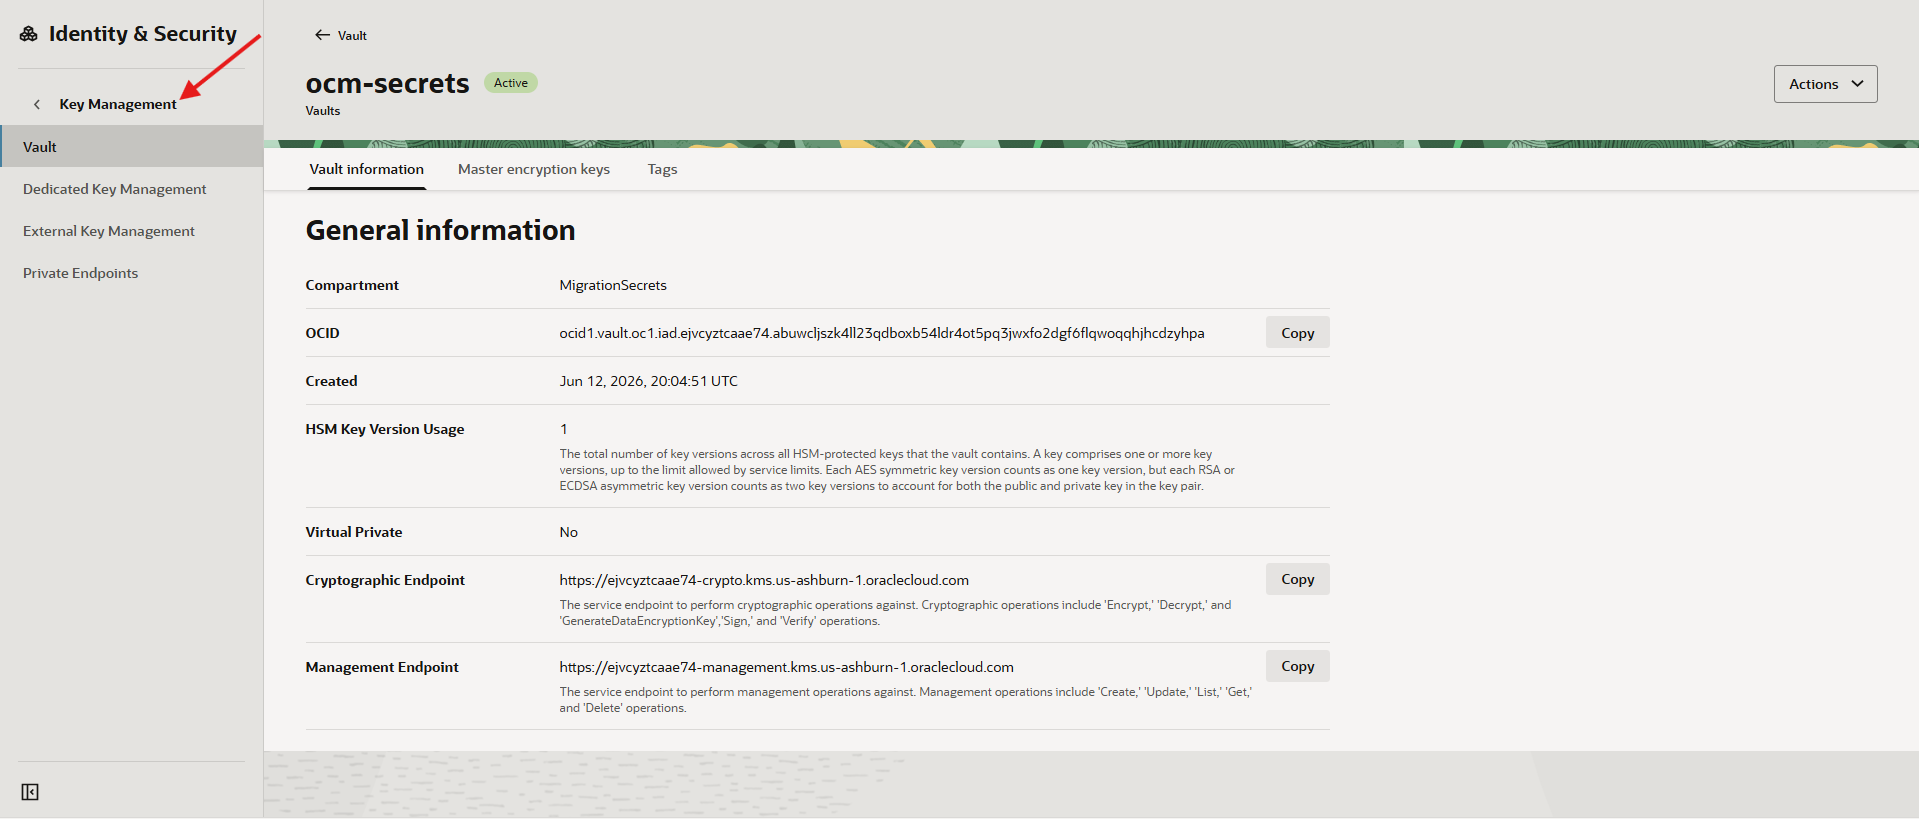
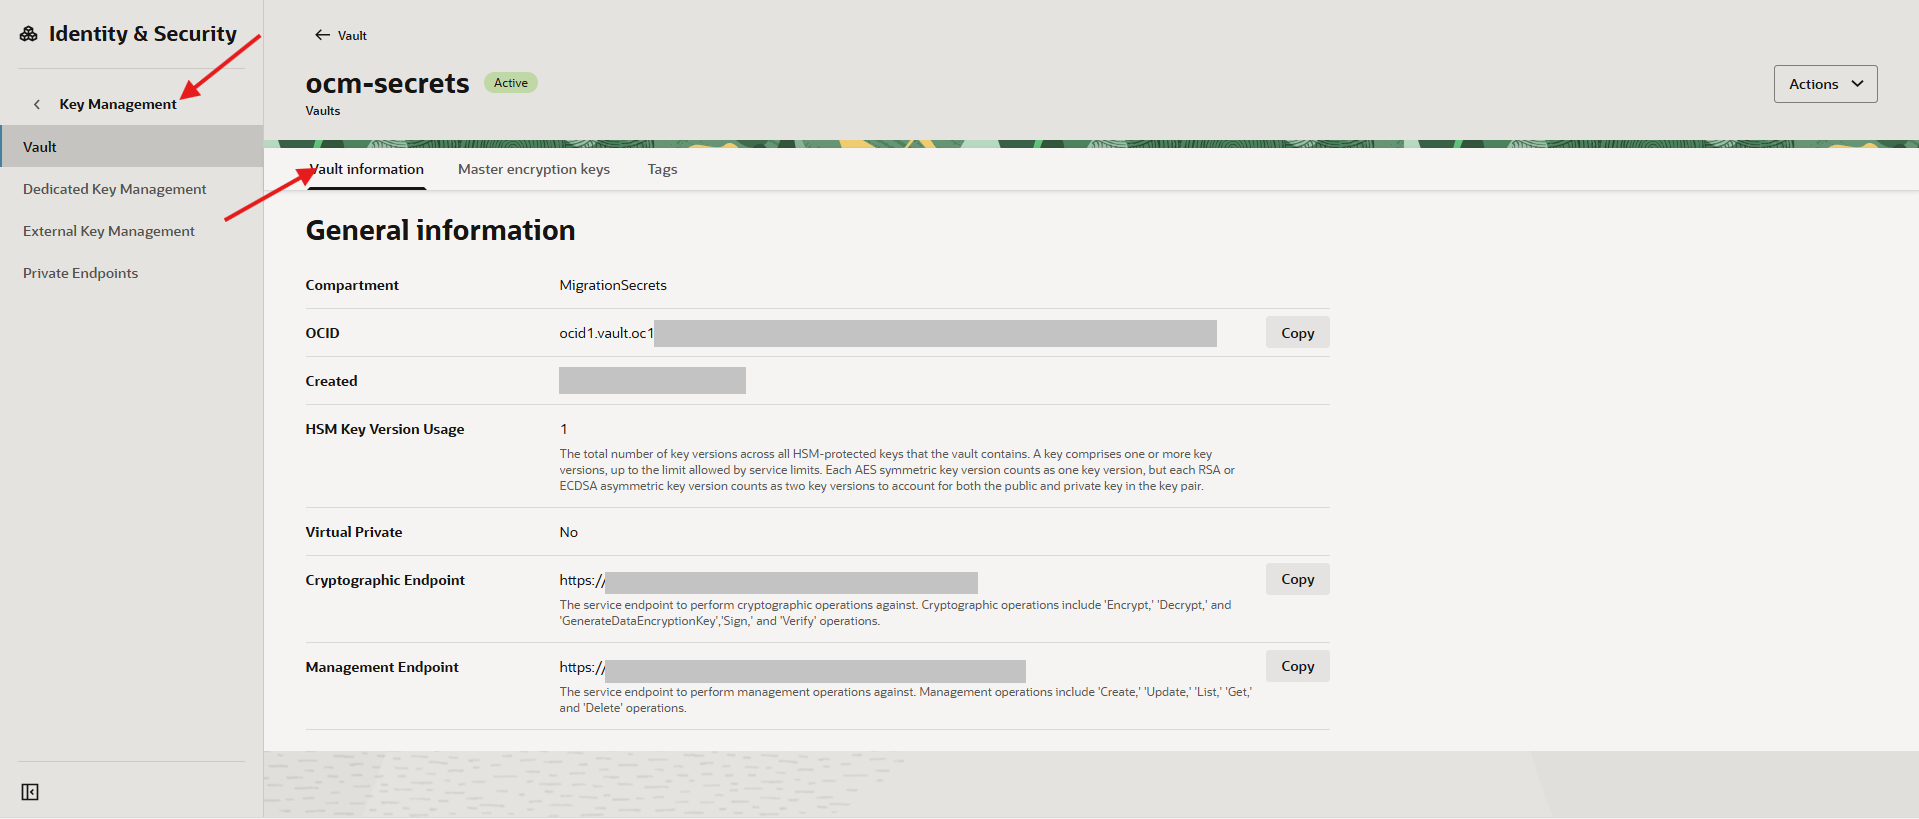
updated

diff --git a/vmware-to-olvm-ocm/setup-vmware-source/setup-vmware-source.md b/vmware-to-olvm-ocm/setup-vmware-source/setup-vmware-source.md
@@ -26,18 +26,18 @@ If this workshop migration uses only Linux source VMs, no Windows VirtIO driver 
 ## Task 1: Store vCenter Credentials in Vault
 
 1. In the OCI Console menu, open **Identity & Security**, **Key Management**, **Vault**.
+    ![Key Management Vault Menu](images/key-management-vault-menu.png "Open Key Management Vault Menu")
 
-2. Select the compartment **olvm-migrations -> Migration -> MigrationSecrets**.
+2. Select the compartment **olvm-migrations -> Migration -> MigrationSecrets**. Then Open the Vault created by the prerequisites stack **ocm-secrets**.
+    ![Migration Secrets Compartment](images/migration-secrets-vault.png "Migration Secrets Compartment")
 
-3. Open the Vault created by the prerequisites stack **ocm-secrets**.
-
-4. Click **Key Management**.
+3. Click **Key Management** and selet the **Vault Information** tab
     ![Key Management Menu](images/key-management-menu.png "Select Key Management")
 
-5. Click **Secret Management**, then click **Create Secret**.
+4. Click **Secret Management**, then click **Create Secret**.
     ![Secret Management Menu](images/secret-management-menu.png "Select Secret Management")
 
-6. On the **Create Secret** page, use the following values.
+5. On the **Create Secret** page, use the following values.
     > Note: Be sure to follow the example format for the secret contents.
 
     | Field | Value |
@@ -56,9 +56,15 @@ If this workshop migration uses only Linux source VMs, no Windows VirtIO driver 
 
     ![Create Secret Page](images/create-secret.png "Enter Create Secret values")
 
-7. Click **Create secret**.
+6. Click **Create secret** and wait for the secret status to become **Active**.
 
-8. Wait for the secret status to become **Active**.
+7. To Locate the active secret , start at  OCI Console menu, open **Identity & Security**, **Secret Management**
+    ![Identity Secret Management Menu](images/identity-secret-management-menu.png "Select Identity Secret Management Menu")
+
+8. Select Compartment **MigrationSecrets**, Vault **ocm-secrets**, and click the **Apply filter** button. 
+    ![Find secret](images/find-secret.png "Find secret")
+
+    ![Active secret](images/active-secret.png "Show Active secret")
 
 ## Task 2: Create the Source Environment
 
@@ -110,6 +116,8 @@ If this workshop migration uses only Linux source VMs, no Windows VirtIO driver 
 
 ## Task 4: Add the OVA to the vCenter Content Library
 
+>**NOTE:** VMware experience required for this lab
+
 1. Sign in to vCenter.
     ![vCenter Login](images/vcenter-login.png "Show vCenter Login")
 
@@ -122,6 +130,8 @@ If this workshop migration uses only Linux source VMs, no Windows VirtIO driver 
 5. Confirm that the OVA item status is ready.
 
 ## Task 5: Deploy the Agent Appliance
+
+>**NOTE:** VMware experience required for this lab
 
 1. In vCenter, select the target cluster.
 
@@ -210,9 +220,9 @@ If this workshop migration uses only Linux source VMs, no Windows VirtIO driver 
 15. Confirm plugin status.
 
     ```text
-    Agent Monitoring:
+    <copy>Agent Monitoring:
     Discovery:
-    Replication:
+    Replication:</copy>
     ```
 
     Replication may show a needs-attention state until asset sources are configured.